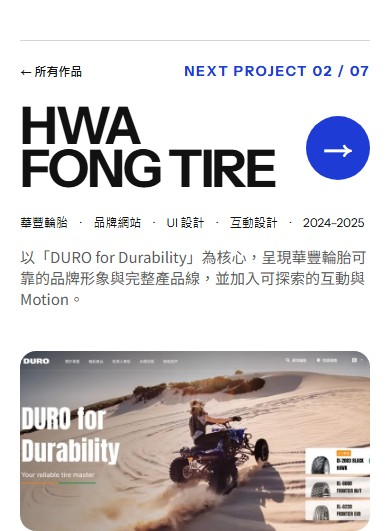
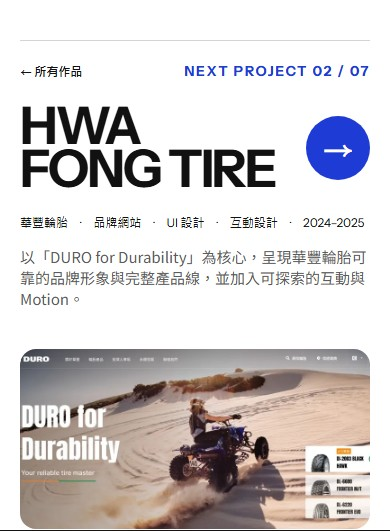
fix(m2): stabilize mobile next height

Changed region(s): [[0.0, 0.6328, 1.0, 1.0], [0.3077, 0.8738, 0.3692, 0.9341], [0.3692, 0.8136, 0.4, 0.8738]]

diff --git a/src/styles/tokens.css b/src/styles/tokens.css
@@ -116,7 +116,7 @@
   --space-section: clamp(var(--space-18), 7.292vw, var(--space-35));
   --space-case-hero-copy-to-stats: 1.4375rem;
   --space-next-heading-to-meta: 1.4375rem;
-  --space-next-body-to-media: 2.625rem;
+  --space-next-body-to-media: 2.5313rem;
 
   --layout-home-max: 108rem;
   --layout-case-max: 90rem;
